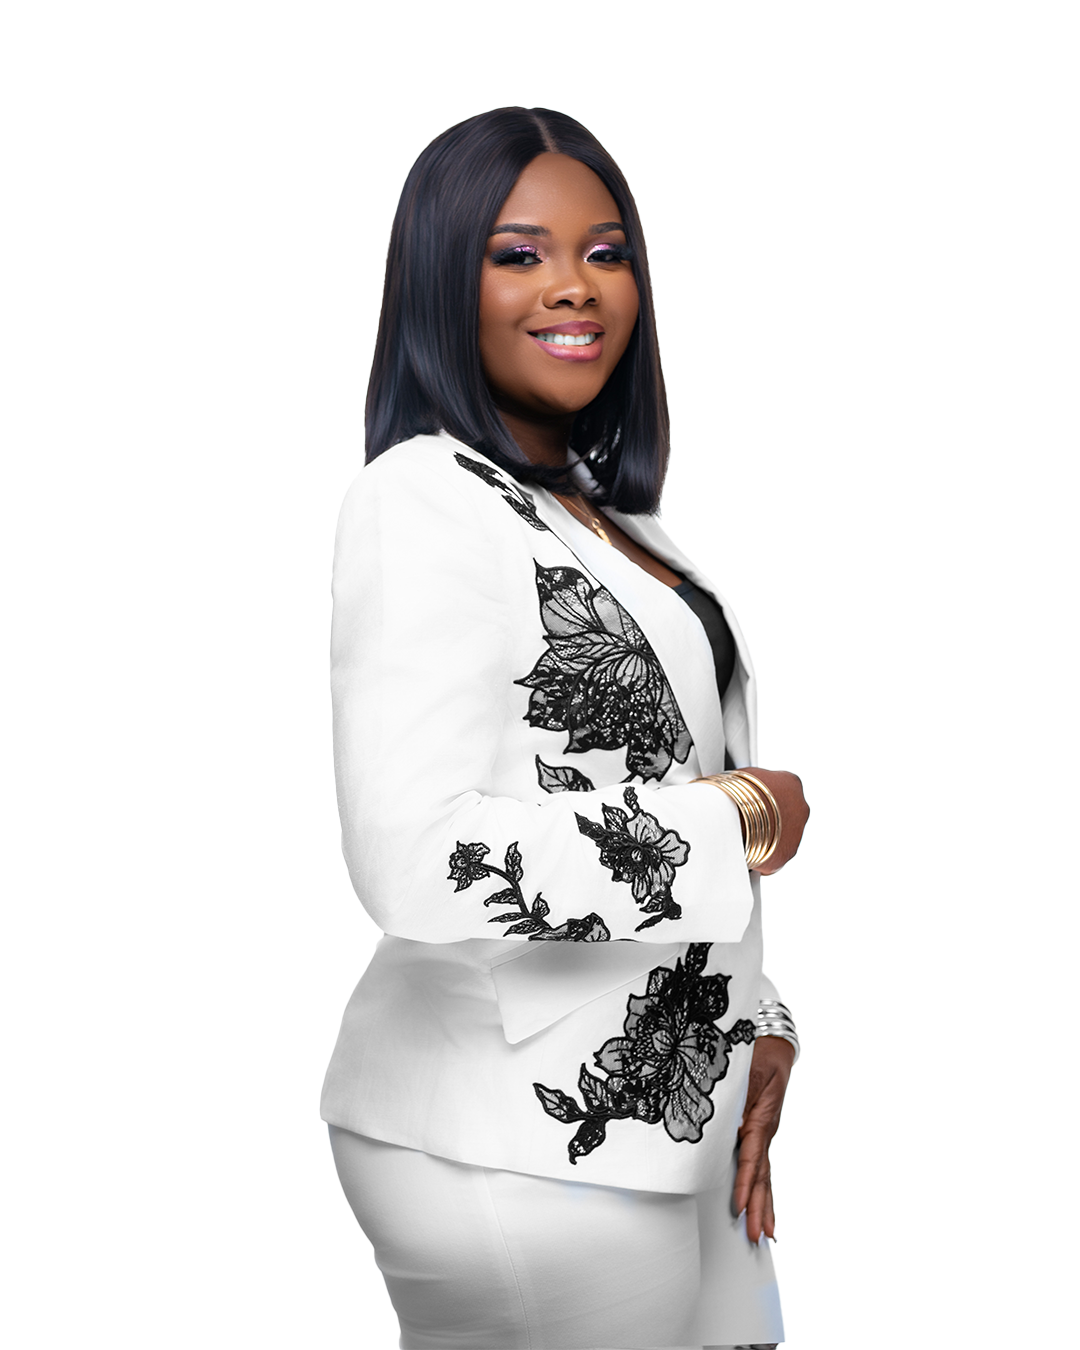
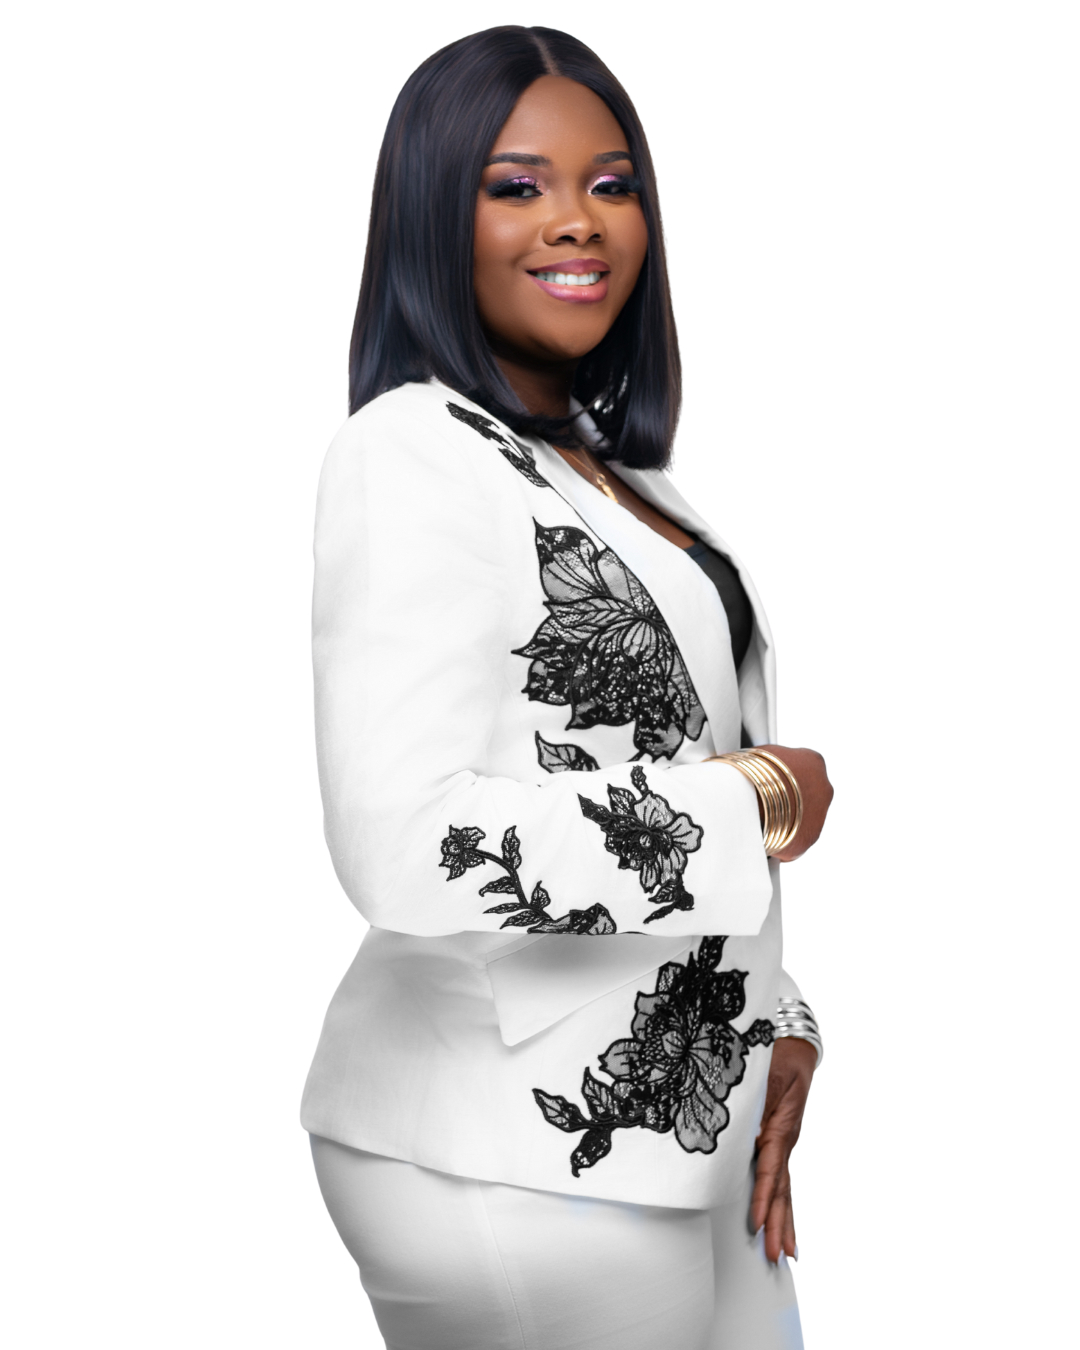
fix: latest corrections

Changed region(s): [[0.275, 0.0, 0.7944, 1.0]]

diff --git a/src/components/sections/ContactSection.tsx b/src/components/sections/ContactSection.tsx
@@ -98,7 +98,7 @@ export default function ContactSection() {
 
   if (isSubmitted) {
     return (
-      <section className="py-20 bg-slate-800 text-white">
+      <section className="py-20 text-slate-800 bg-white">
         <div className="max-w-4xl mx-auto px-4 sm:px-6 lg:px-8">
           <motion.div
             initial={{ scale: 0.9, opacity: 0 }}
@@ -124,7 +124,7 @@ export default function ContactSection() {
   }
 
   return (
-    <section className="py-20 bg-slate-800 text-white">
+    <section className="py-20  text-slate-800 bg-white">
       <div className="max-w-7xl mx-auto px-4 sm:px-6 lg:px-8">
         <motion.div
           initial={{ y: 30, opacity: 0 }}
@@ -134,7 +134,7 @@ export default function ContactSection() {
           className="text-center mb-16"
         >
           <h2 className="text-4xl lg:text-5xl font-bold mb-6">Get In Touch</h2>
-          <p className="text-xl text-gray-300 max-w-3xl mx-auto">
+          <p className="text-xl text-gray-700 max-w-3xl mx-auto">
             Ready to transform your career or business? Let&apos;s discuss how we can work 
             together to achieve extraordinary results.
           </p>
@@ -148,7 +148,7 @@ export default function ContactSection() {
             transition={{ duration: 0.8 }}
             viewport={{ once: true }}
           >
-            <Card className="p-8 bg-white/10 backdrop-blur-sm border-white/20">
+            <Card className="p-8 bg-slate-800 backdrop-blur-sm border-white/20">
               <form onSubmit={handleSubmit(onSubmit)} className="space-y-6">
                 <div className="grid grid-cols-1 sm:grid-cols-2 gap-4">
                   <div>
@@ -158,7 +158,7 @@ export default function ContactSection() {
                     <Input
                       id="name"
                       {...register('name')}
-                      className="bg-white/10 border-white/20 text-white placeholder:text-gray-600"
+                      className="bg-white/10 border-white/20 text-white placeholder:text-white"
                       placeholder="Your name"
                     />
                     {errors.name && (
@@ -174,7 +174,7 @@ export default function ContactSection() {
                       id="email"
                       type="email"
                       {...register('email')}
-                      className="bg-white/10 border-white/20 text-white placeholder:text-gray-600"
+                      className="bg-white/10 border-white/20 text-white placeholder:text-white"
                       placeholder="your@email.com"
                     />
                     {errors.email && (
@@ -190,7 +190,7 @@ export default function ContactSection() {
                   <Input
                     id="company"
                     {...register('company')}
-                    className="bg-white/10 border-white/20 text-white placeholder:text-gray-600"
+                    className="bg-white/10 border-white/20 text-white placeholder:text-white"
                     placeholder="Your company (optional)"
                   />
                 </div>
@@ -202,7 +202,7 @@ export default function ContactSection() {
                   <Input
                     id="subject"
                     {...register('subject')}
-                    className="bg-white/10 border-white/20 text-white placeholder:text-gray-600"
+                    className="bg-white/10 border-white/20 text-white placeholder:text-white"
                     placeholder="What would you like to discuss?"
                   />
                   {errors.subject && (
@@ -218,7 +218,7 @@ export default function ContactSection() {
                     id="message"
                     {...register('message')}
                     rows={6}
-                    className="bg-white/10 border-white/20 text-white placeholder:text-gray-600 resize-none"
+                    className="bg-white/10 border-white/20 text-white placeholder:text-white resize-none"
                     placeholder="Tell Joy about your goals and how she can help..."
                   />
                   {errors.message && (
@@ -254,7 +254,7 @@ export default function ContactSection() {
           >
             <div>
               <h3 className="text-2xl font-bold mb-6">Contact Information</h3>
-              <p className="text-gray-300 mb-8">
+              <p className="text-slate-800 mb-8">
                 Whether you&apos;re looking to transform your career, scale your business, 
                 or bring Joy in as a keynote speaker, let&apos;s connect and explore the 
                 possibilities together.
@@ -270,14 +270,14 @@ export default function ContactSection() {
                   whileInView={{ opacity: 1, x: 0 }}
                   transition={{ duration: 0.5, delay: index * 0.1 }}
                   viewport={{ once: true }}
-                  className="flex items-center space-x-4 p-4 rounded-lg bg-white/5 hover:bg-white/10 transition-colors duration-200"
+                  className="flex items-center space-x-4 p-4 rounded-lg bg-slate-800 hover:bg-slate-600 transition-colors duration-200"
                 >
                   <div className="bg-amber-600 text-slate-800 p-3 rounded-full">
                     <info.icon className="h-5 w-5" />
                   </div>
                   <div>
-                    <p className="font-medium">{info.label}</p>
-                    <p className="text-gray-300">{info.value}</p>
+                    <p className="font-medium text-white">{info.label}</p>
+                    <p className="text-white">{info.value}</p>
                   </div>
                 </motion.a>
               ))}

diff --git a/src/components/BookComponent/bonuses.tsx b/src/components/BookComponent/bonuses.tsx
@@ -1,12 +1,13 @@
 'use client';
 
-import { useState} from 'react';
+//import { useState} from 'react';
 import { motion } from 'framer-motion';
 import { Card, CardContent } from '@/components/ui/card';
-import { Button } from '@/components/ui/button';
+//import { Button } from '@/components/ui/button';
 import { Gift, FileText, Video, Headphones, ArrowRight } from 'lucide-react';
-import { PreOrderPopup } from '../sections/pre-order-popup';
-import { useToast } from '@/hooks/use-toast';
+//import { PreOrderPopup } from '../sections/pre-order-popup';
+//import { useToast } from '@/hooks/use-toast';
+import Link from 'next/link';
 
 const bonuses = [
   {
@@ -40,24 +41,24 @@ const bonuses = [
 ];
 
 export function Bonuses() {
-  const [showPopup, setShowPopup] = useState(false);
-  const { toast } = useToast();
+  //const [showPopup, setShowPopup] = useState(false);
+  //const { toast } = useToast();
 
-  const handleClaimBonus = () => {
-    console.log("POPOOOOO")
-    const hasSeen = localStorage.getItem('hasSeenPreOrderPopup');
+  // const handleClaimBonus = () => {
+  //   console.log("POPOOOOO")
+  //   const hasSeen = localStorage.getItem('hasSeenPreOrderPopup');
 
-    if (hasSeen === 'true') {
-      toast({
-        title: 'You have already pre-ordered 🎉',
-        description: 'Thank you for claiming your bonuses earlier.',
-        variant: 'destructive',
-      });
-    } else {
-      setShowPopup(true);
-      //localStorage.setItem('hasSeenPreOrderPopup', 'true');
-    }
-  };
+  //   if (hasSeen === 'true') {
+  //     toast({
+  //       title: 'You have already pre-ordered 🎉',
+  //       description: 'Thank you for claiming your bonuses earlier.',
+  //       variant: 'destructive',
+  //     });
+  //   } else {
+  //     setShowPopup(true);
+  //     //localStorage.setItem('hasSeenPreOrderPopup', 'true');
+  //   }
+  // };
 
   return (
     <section className="relative py-24 px-4 sm:px-6 lg:px-8 overflow-hidden">
@@ -136,19 +137,18 @@ export function Bonuses() {
               <p className="text-white text-lg mb-4">
                 Pre order today and claim all bonuses instantly
               </p>
-              <Button
-                onClick={handleClaimBonus}
-                size="lg"
-                className="bg-white text-amber-700 hover:bg-slate-100 px-8 py-6 text-lg font-semibold rounded-full shadow-lg transition-all hover:scale-105"
+              <Link               
+               href="/contact"
+              className="flex items-center justify-center bg-white text-amber-700 hover:bg-slate-100 px-8 py-6 text-lg font-semibold rounded-full shadow-lg transition-all hover:scale-105"
               >
                 Claim Your Bonuses Now
                 <ArrowRight className="ml-2 h-5 w-5" />
-              </Button>
+              </Link>
             </CardContent>
           </Card>
 
           {/* Popup Modal */}
-          {showPopup && <PreOrderPopup />}
+          {/* {showPopup && <PreOrderPopup />} */}
         </motion.div>
       </div>
     </section>

diff --git a/src/components/sections/AboutSection.tsx b/src/components/sections/AboutSection.tsx
@@ -9,56 +9,13 @@ import Image from 'next/image';
 import author from '@/assets/about.jpg';
 import Link from 'next/link';
 
-// ✅ Simple count-up animation
-// function CountUp({ end, duration = 2 }: { end: number; duration?: number }) {
-//   const [count, setCount] = useState(0);
-//   const ref = useRef(null);
-//   const inView = useInView(ref, { once: true });
-
-//   useEffect(() => {
-//     if (!inView) return;
-//     let start = 0;
-//     const increment = end / (duration * 60); // ~60fps
-//     const interval = setInterval(() => {
-//       start += increment;
-//       if (start >= end) {
-//         setCount(end);
-//         clearInterval(interval);
-//       } else {
-//         setCount(Math.floor(start));
-//       }
-//     }, 16);
-//     return () => clearInterval(interval);
-//   }, [inView, end, duration]);
-
-//   return <motion.span ref={ref}>{count}</motion.span>;
-// }
-
-// const achievements = [
-//   {
-//     icon: Award,
-//     label: 100,
-//     description: 'businesses coached and scaled',
-//   },
-//   {
-//     icon: Briefcase,
-//     label: 1500,
-//     description: 'career transformations',
-//   },
-//   {
-//     icon: Users,
-//     label: 1000,
-//     description: 'event attendees',
-//   },
-// ];
-
 export default function AboutSection() {
   return (
     <section className="py-20 bg-gray-50">
       <div className="max-w-7xl mx-auto px-4 sm:px-6 lg:px-8">
         <div className="grid lg:grid-cols-2 gap-12 items-center">
           
-          {/* ✅ Image Column (simplified) */}
+          {/* Image Column (simplified) */}
           <motion.div
             initial={{ x: -50, opacity: 0 }}
             whileInView={{ x: 0, opacity: 1 }}

diff --git a/src/components/sections/BookSection.tsx b/src/components/sections/BookSection.tsx
@@ -72,15 +72,15 @@ export default function BookSection() {
               whileInView={{ y: 0, opacity: 1 }}
               transition={{ duration: 0.8, delay: index * 0.2 }}
               viewport={{ once: true }}
-              className="flex flex-col items-center text-center border-t border-b border-gray-200 py-10 px-4 rounded-2xl shadow-sm hover:shadow-md transition-all duration-300"
+              className="flex flex-col items-start text-center border-t border-b border-gray-200 py-10 px-4 rounded-2xl shadow-sm hover:shadow-md transition-all duration-300"
             >
-               <h3 className="text-xl font-bold mb-4">{item.title}</h3>
+               <h3 className="text-sm md:text-xl font-bold mb-4">{item.title}</h3>
               <div className="relative w-full h-80 mb-6 rounded-xl overflow-hidden">
                 <Image
                   src={item.image}
                   alt={item.title}
                   fill
-                  className="object-cover hover:scale-105 transition-transform duration-500"
+                  className=" object-center hover:scale-105 transition-transform duration-500"
                 />
               </div>
 

diff --git a/src/components/BookComponent/hero-book.tsx b/src/components/BookComponent/hero-book.tsx
@@ -1,7 +1,7 @@
 'use client';
 
 import { motion } from 'framer-motion';
-import { Button } from '@/components/ui/button';
+//import { Button } from '@/components/ui/button';
 import { ArrowRight } from 'lucide-react';
 import Link from 'next/link';
 
@@ -73,13 +73,12 @@ export function HeroBook() {
               Order Now
               <ArrowRight className="ml-2 h-5 w-5" />
             </Link>
-            <Button
-              size="lg"
-              variant="outline"
-              className="border-2 border-white text-amber-600 hover:bg-white hover:text-slate-900 px-8 py-6 text-lg font-semibold rounded-full transition-all hover:scale-105"
-            >
-              Read Excerpt
-            </Button>
+         <Link
+  href="#read-excerpt"
+  className="border-2 border-white text-white hover:bg-white hover:text-slate-900 px-8 py-6 text-lg font-semibold rounded-full transition-all hover:scale-105"
+>
+  Read Excerpt
+</Link>
           </motion.div>
 
           {/* Availability note */}

diff --git a/src/components/sections/ScholarshipSection.tsx b/src/components/sections/ScholarshipSection.tsx
@@ -19,8 +19,13 @@ export default function ScholarshipSection() {
       <div className="absolute inset-0 flex items-end justify-center pb-12">
         <Link
           href="/scholarship"
-          className="bg-amber-600 text-white hover:bg-slate-800 font-semibold px-10 py-4 rounded-lg text-lg shadow-lg transition-all duration-300 flex items-center gap-2"
-        >
+              className="
+            bg-amber-600 text-white hover:bg-slate-800 font-semibold
+            px-4 py-2 text-sm
+            sm:px-6 sm:py-3 sm:text-base
+            lg:px-10 lg:py-4 lg:text-lg
+            rounded-lg shadow-lg transition-all duration-300 flex items-center gap-2
+          "    >
           Learn more
         </Link>
       </div>

diff --git a/src/components/sections/BusinessSection.tsx b/src/components/sections/BusinessSection.tsx
@@ -4,7 +4,7 @@ import { motion, AnimatePresence } from 'framer-motion';
 import { Award, Users, Briefcase, ArrowRight, ChevronLeft, ChevronRight } from 'lucide-react';
 import Image from 'next/image';
 import profile from '@/assets/speak.jpg';
-import profile3 from '@/assets/profile-3.jpg';
+import profile3 from '@/assets/profile-6.jpg';
 import profile5 from '@/assets/profile.jpg';
 import profile4 from '@/assets/about_me.png';
 import Link from 'next/link';

diff --git a/src/components/BookComponent/BookExcerpt.tsx b/src/components/BookComponent/BookExcerpt.tsx
@@ -21,7 +21,9 @@ export default function BookExcerpt() {
   };
 
   return (
-    <section className="py-16 sm:py-20 bg-slate-100 flex flex-col items-center justify-center">
+    <section
+       id="read-excerpt"
+    className="py-16 sm:py-20 bg-slate-100 flex flex-col items-center justify-center">
       <motion.h2
         initial={{ y: 20, opacity: 0 }}
         whileInView={{ y: 0, opacity: 1 }}

diff --git a/src/app/globals.css b/src/app/globals.css
@@ -8,7 +8,9 @@
   }
 }
 
-
+html {
+  scroll-behavior: smooth;
+}
 
 @layer base {
   :root {
